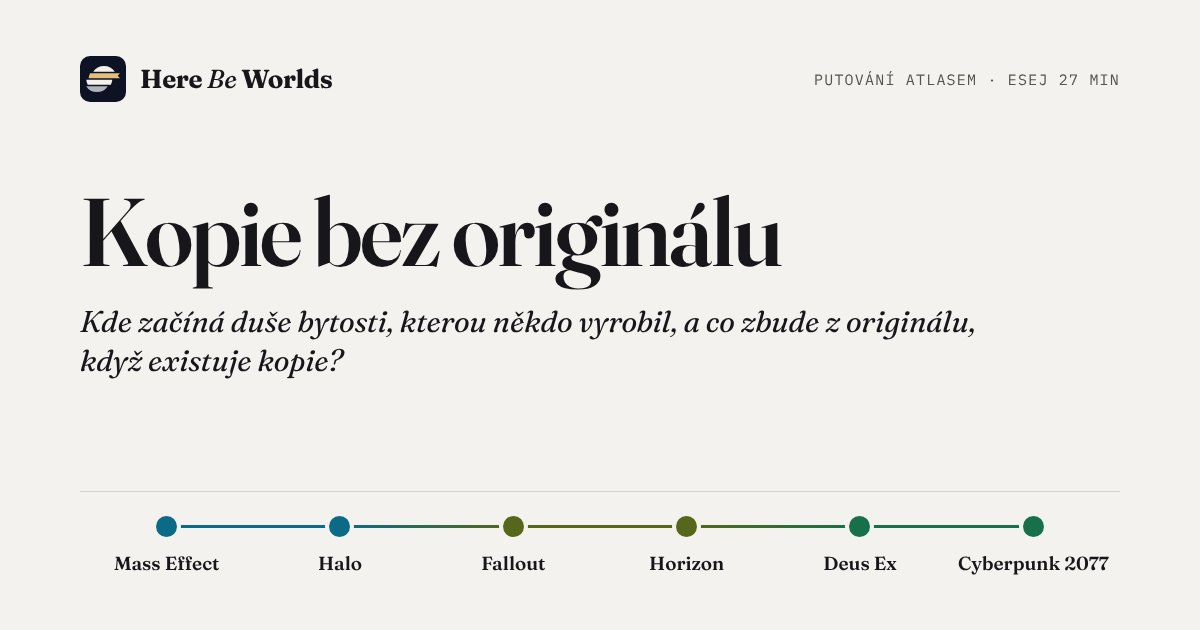
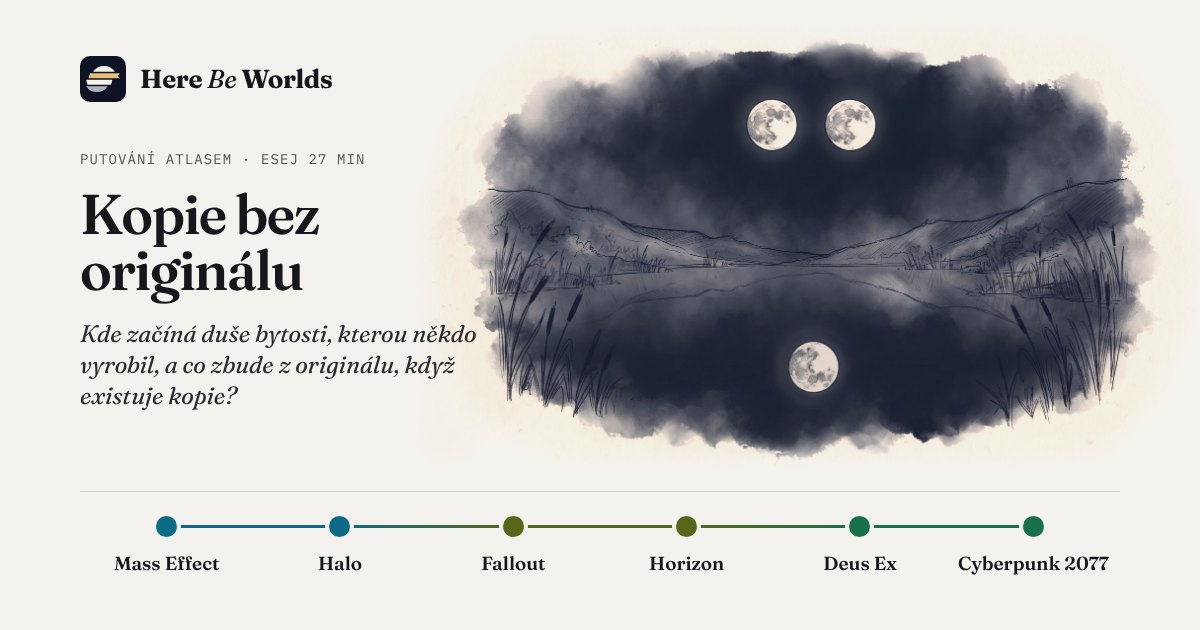
Obrázky k putování Kopie bez originálu: dva měsíce s jedním odrazem, pampeliška z pampelišek, kohout vyměněný s korouhví
Claude-Session: https://claude.ai/code/session_01B7obWLKHHEWxurZ5a1svnf

diff --git a/src/lib/trail-images.ts b/src/lib/trail-images.ts
@@ -29,6 +29,7 @@ export const READY: Record<TrailId, number> = {
   corporate: 3,
   laughter: 3,
   'chronicle-keepers': 3,
+  copies: 3,
 };
 
 const DIR = 'putovani-obrazky';

diff --git a/docs/obrazky-putovani.md b/docs/obrazky-putovani.md
@@ -13,7 +13,7 @@ Stav 2026-11-23: styl nalezený po pěti kolech zkoušek (náhled `/putovani/nav
 - **Zadání pro motivy: odvaha, surrealismus, silná myšlenka (majitel 2026-11-26, po Logu nad troskami, „zdaleka nejlepší série“):** motivy střídat a nebát se odvážných, i absurdních nápadů, i když se špatně převádějí do obrázku. Surrealisticky, ne doslovně; obraz má mít rafinovanost a silnou myšlenku, klidně i složitější. Majiteli se líbí satira a ironie. Co fungovalo: obyčejný, všem známý předmět nebo stavba na špatném místě nebo z nepatřičné látky, takže z něj je paradox, který se čte na první pohled (parkovací automaty místo náhrobků, atomový hřib jako kancelářská budova s trávníkem, mraky na provázku s cenovkou), a jedna velká čitelná silueta. Nevyšlo: guma (vypadala jako pilulka, vygumovaná půlka zůstala nakreslená) a razítko (otisk jako položená fotka). Gemini nezvládá změnu jednoho obrazu ve druhý na ploše, zvládá předmět na nečekaném místě.
 - **Styl neujíždět (majitel 2026-11-26, u Smíchu nad propastí):** styl držet podle série Logo nad troskami. Ve scéně nejmenovat barvy ani materiály (ne „červený provaz“, „rezavý stůl“, „lesklé balonky“, „mosazný zvonek“): Gemini je bere doslova a přebijí monochromní tuš. Scéna dvě až tři věty, hlavní tvar a jeden detail, ne výčet předmětů; dlouhá scéna táhne kresbu k čisté komiksové ilustraci a mlha mizí. Pokaždé nový chat a vždy stejný vzor `25-styl-vicko.jpg`, nikdy nový obrázek jako vzor. Pozor (majitel 2026-11-26 odpoledne, styl i barvy zase ujely): příčinou bylo, že Claude u každého promptu přepisoval i řádky Mood, Composition a Avoid (vlastní nálady, dlouhé seznamy zákazů včetně „cartoon, comic-book style…“, které Gemini spíš navedou). **Prompt je vždy přesně šablona z oddílu Jak generovat a mění se jen řádek Scene**; nálada se vyjádří uvnitř Scene, ne vlastním Mood.
 - **Neopakovat se, nečekaný znepokojivý detail (majitel 2026-11-25, u Prokletého dědictví):** napříč putováními se začaly opakovat stejné rekvizity (klíčky, zrcadla, obrazy, botičky, stopy) a majitel to zamítl: „chce to přijít s něčím nečekaným, a o to víc znepokojivým, musí tam být nějaký nečekaný moment, detail“. Vzor: kolébka s korunou, jejíž stín na zdi je rakev. Postup: obyčejný předmět (domácí, dětský, rodinný), který na první pohled nic nenaznačuje, a jediný detail, který ho na druhý pohled převrátí. Před návrhem motivů projít seznam níže a nesáhnout po ničem, co v něm už je; když se rekvizita přece jen hodí, říct to majiteli předem. Témata smějí být temná a zlověstná, bez krve a násilí (v promptu `Avoid: … gore`; u temných putování Mood „ominous surrealism … heavy with dread“ místo „quiet“).
-- **Už použité rekvizity (doplňovat po každém putování):** klíče a klíčové dírky (klíč stočený do kruhu, měsíc jako klíčová dírka) · zrcadla (rukavice a zrcátko, zamlžené zrcadlo) · obrazy a rámy (stín, který vypadl z obrazu) · boty a stopy (stopy ve sněhu, prázdné boty u žebříku) · prázdné oděvy (plášť na trůnu, kabát ukazující cestu, rukavice) · žebra a kosti jako stavivo (katedrála ze žeber, jablko se žebry) · trůny (plášť na trůnu, trůn s břízou) · knihy, deníky a dopisy (postavička z knihy, můra z deníku, dopisy z hlavy sochy, hranice srolovaných dopisů) · hodiny (kavalerie z rozbitých hodin) · světla (lucerna, svíčka, oheň u gramofonu) · koště a brky (koště z brků) · kouř (sirka z kouře, beránek z kouře) · nábytek a pokoje (křesla za sklem, okno s pokojem na pláni, koberec nad jámou) · stín jako odhalení (stín klíče, stín z obrazu, stín chapadel u pulce, stín rakve u kolébky) · ostatní: městečko na jevišti s roztrženým nebem, vajíčko ve vajíčku, kamenné víčko, domy otáčející se za chodcem, most z dlažby, kořenů, copů a prádla, prapory z hejn ptáků, kolotoč z děl, žebřík opřený o nebe, gramofon s hvězdami, sklenice s pulcem, mince na hraně, řetěz s dětským poutem, šperkovnice s mléčnými zuby, koleje a výhybka (smyčka jako oko), obojek s vodítkem do mraků, trhací kalendář s prázdnými listy, hostina v dunách, schodiště zpět do země, zazděný oblouk s pěšinou kolem, atomový hřib jako budova, parkovací automaty jako náhrobky, mraky na provázku s cenovkami, banánová slupka nad propastí, ostnatý plot s girlandami a balonky, úsměv na zamlženém okénku, socha s vyměnitelnou hlavou, stohy ze skartovaného papíru, psací stroj s papírovou cestou (a kolébka v seznamu stínů). Zkoušené a zamítnuté u svobodné vůle: hrací skříňka s baletkou, kostka ve vzduchu, piliny s magnetem (třikrát nevyšlo), budka zatlučená zevnitř. U Ráje: hradby obrácené dovnitř (vyšel obyčejný hrad), maják na dně (vypadá jako zatopený katastrofou), ráj pod skleněným zvonem (vypadá jako sněžítko), fontána s pískem (písek vypadá jako voda), kryt s pentlí (dveře jako trezor z Falloutu). U Smíchu nad propastí: pochod natahovacích zubů a jednokolka na girlandě přes rokli (dobré, ale znovu skály a propast), čertík v krabičce (barevný), kartotéka s vesmírem (digitální jiskry), past s konfetami, plynová maska s úsměvem, socha v šaškovské čepici (komiks), přepážka v bouři (červený provaz), balonkový pes v pitevně (lesklý), hráz z gumových kachniček (výborná, záloha), roztržené šapitó, rakev s frkačkou (frkačka jako svitek), skákací hrad (věžičky jako rakety). U Kdo drží kroniku: mapa se skalpelem (kruhová díra), inkoust zpod archivu (teče z kopce, archiv nepoznat), archeologický řez pod slavností, pomník s vysekanou postavou, odloupnutá tapeta (jakoby na stropě), vykrajovátko na hrdiny (čistá ilustrace), pevnost z knih, puzzle s kladivem, brk nad bojištěm (silný, ale prázdný; verze s přilbami a vavřínem moc světlá). Styl ujížděl, když se do šablony přidal řádek navíc („loose sketch“): obraz zesvětlal; šablonu neměnit, jen řádek Scene. U Loga nad troskami: guma (pilulka), razítko (otisk jako fotka), mravenčí farma s byty (doslovná, záloha). Poučení (majitel 2026-11-25): u celků musí být paradox hlavní tvar a číst se na první pohled; nic ze skutečného světa (Vítězný oblouk z Paříže zamítnut).
+- **Už použité rekvizity (doplňovat po každém putování):** klíče a klíčové dírky (klíč stočený do kruhu, měsíc jako klíčová dírka) · zrcadla (rukavice a zrcátko, zamlžené zrcadlo) · obrazy a rámy (stín, který vypadl z obrazu) · boty a stopy (stopy ve sněhu, prázdné boty u žebříku) · prázdné oděvy (plášť na trůnu, kabát ukazující cestu, rukavice) · žebra a kosti jako stavivo (katedrála ze žeber, jablko se žebry) · trůny (plášť na trůnu, trůn s břízou) · knihy, deníky a dopisy (postavička z knihy, můra z deníku, dopisy z hlavy sochy, hranice srolovaných dopisů) · hodiny (kavalerie z rozbitých hodin) · světla (lucerna, svíčka, oheň u gramofonu) · koště a brky (koště z brků) · kouř (sirka z kouře, beránek z kouře) · nábytek a pokoje (křesla za sklem, okno s pokojem na pláni, koberec nad jámou) · stín jako odhalení (stín klíče, stín z obrazu, stín chapadel u pulce, stín rakve u kolébky) · ostatní: městečko na jevišti s roztrženým nebem, vajíčko ve vajíčku, kamenné víčko, domy otáčející se za chodcem, most z dlažby, kořenů, copů a prádla, prapory z hejn ptáků, kolotoč z děl, žebřík opřený o nebe, gramofon s hvězdami, sklenice s pulcem, mince na hraně, řetěz s dětským poutem, šperkovnice s mléčnými zuby, koleje a výhybka (smyčka jako oko), obojek s vodítkem do mraků, trhací kalendář s prázdnými listy, hostina v dunách, schodiště zpět do země, zazděný oblouk s pěšinou kolem, atomový hřib jako budova, parkovací automaty jako náhrobky, mraky na provázku s cenovkami, banánová slupka nad propastí, ostnatý plot s girlandami a balonky, úsměv na zamlženém okénku, socha s vyměnitelnou hlavou, stohy ze skartovaného papíru, psací stroj s papírovou cestou, dva měsíce s jedním odrazem, pampeliška z pampelišek, kohout vyměněný s korouhví (a kolébka v seznamu stínů). Zkoušené a zamítnuté u svobodné vůle: hrací skříňka s baletkou, kostka ve vzduchu, piliny s magnetem (třikrát nevyšlo), budka zatlučená zevnitř. U Ráje: hradby obrácené dovnitř (vyšel obyčejný hrad), maják na dně (vypadá jako zatopený katastrofou), ráj pod skleněným zvonem (vypadá jako sněžítko), fontána s pískem (písek vypadá jako voda), kryt s pentlí (dveře jako trezor z Falloutu). U Smíchu nad propastí: pochod natahovacích zubů a jednokolka na girlandě přes rokli (dobré, ale znovu skály a propast), čertík v krabičce (barevný), kartotéka s vesmírem (digitální jiskry), past s konfetami, plynová maska s úsměvem, socha v šaškovské čepici (komiks), přepážka v bouři (červený provaz), balonkový pes v pitevně (lesklý), hráz z gumových kachniček (výborná, záloha), roztržené šapitó, rakev s frkačkou (frkačka jako svitek), skákací hrad (věžičky jako rakety). U Kopie bez originálu: Thésseova loď (prkna nepoznat, hnědá), kopírka s řadou dubů (kopírka už byla u skartovačky), kukaččí vejce (klišé), roubovaná jabloň (přeplácaná), řetěz papírových postav, dva hroby (bez druhé vrstvy), otisky prstů, stožár s větví, sbírka motýlů, láhev s přístavem. U Kdo drží kroniku: mapa se skalpelem (kruhová díra), inkoust zpod archivu (teče z kopce, archiv nepoznat), archeologický řez pod slavností, pomník s vysekanou postavou, odloupnutá tapeta (jakoby na stropě), vykrajovátko na hrdiny (čistá ilustrace), pevnost z knih, puzzle s kladivem, brk nad bojištěm (silný, ale prázdný; verze s přilbami a vavřínem moc světlá). Styl ujížděl, když se do šablony přidal řádek navíc („loose sketch“): obraz zesvětlal; šablonu neměnit, jen řádek Scene. U Loga nad troskami: guma (pilulka), razítko (otisk jako fotka), mravenčí farma s byty (doslovná, záloha). Poučení (majitel 2026-11-25): u celků musí být paradox hlavní tvar a číst se na první pohled; nic ze skutečného světa (Vítězný oblouk z Paříže zamítnut).
 - **Světlo:** výchozí je **čistě modrá tuš bez zlaté**. Zlatá (#E5BE7E) jen výjimečně, když ji řádek scény výslovně jmenuje a je jádrem motivu (klíčová dírka na nebi, oheň u gramofonu). Gemini jinak zlatou přidává sám (okénka, lucerny), protože ji má vzorový obrázek: proto prompt výslovně zakazuje převzít lampu ze vzoru (majitel 2026-11-23: „pořád stejné rozsvícené okýnko a lucerna“).
 - **Motiv:** detail nebo polocelek, ne velká scéna. Obraz s druhým čtením: na první pohled obyčejný, na druhý nese otázku eseje. Prázdný prostor kolem.
 - **Nikdy:** text, písmena, podpisy, rámečky; postavy, loga a místa z her; náboženské symboly; lidé (nanejvýš drobná postava zezadu, když to motiv potřebuje); cákance tuše; airbrush; uhlazená digitální linka.
@@ -25,7 +25,7 @@ Stav 2026-11-23: styl nalezený po pěti kolech zkoušek (náhled `/putovani/nav
 - Masky: `maska/<slug>-N.png` podle tuše pro tmavý motiv (`python3 scripts/ink-masks.py`, pak zkopírovat z `navrh-obrazku/maska/`, nebo upravit cestu ve skriptu), `maska/freska.png` obecná.
 - Které putování obrázky má: `READY` v `src/lib/trail-images.ts`. Obrázky se ukážou jen u schválené eseje.
 - Rejstřík `/putovani/` má rozvržení karet ve dvou sloupcích s obrázkem nahoře (C, vybráno ze tří variant: A obraz za textem, B střídavé desky). Dokud nemají obrázky všechna putování, stojí vedle karty s obrázkem textové karty.
-- Na webu (2026-11-23): Hra ví, že ji hraješ (městečko na jevišti s roztrženým namalovaným nebem; postavička vylezlá z ilustrace v knize; stín, který vypadl z obrazu na podlahu); Na mrtvole boha (tři: prázdný plášť na trůnu držený provazy davu; trůn, kterým prorůstá bříza; jablko s žebry místo jádřince); Netvor v zrcadle (zatím jeden: stopy ve sněhu, které se z bot mění v tlapy); Mluví už jen mrtví (tři: prázdný kabát, který ukazuje cestu; můra s křídly z deníku; potopená hlava sochy, z níž stoupají listy dopisu k loďce); Uvězněni v kruhu (tři: klíč stočený do kruhu se stínem rovného klíče; vajíčko ve vajíčku; z kouře dohořelé sirky nová sirka); Bohové jako břemeno (katedrála ze žeber, kamenné víčko); Město, které dýchá (domy, které se otáčejí za chodcem; most z dlažby, kořenů, copů a prádla); Dům, ze kterého nejde odejít (měsíc jako zlatá klíčová dírka nad městečkem, okno uprostřed pláně s pokojem uvnitř). Válka, kterou nikdo nevyhraje (tři obrázky: prapory z hejn ptáků, kolotoč z děl, kavalerie z rozbitých hodin se svíčkou v temnu); Pod lhostejnými hvězdami (žebřík opřený o nebe s prázdnými botami a lucernou, gramofon, ze kterého se sypou hvězdy, u táboráku); Kdo za to může? (tři: prázdná rukavice ukazuje na zrcátko a odraz ukazuje zpět na diváka; koberec, pod jehož rohem je jáma se schody a koště z brků; z hranice srolovaných dopisů odplouvá kouř jako spící beránek, 2026-11-25); Kdo se to probudil? (tři: zamlžené zrcadlo nad umyvadlem, v jehož setřeném pruhu je další zrcadlo; dvě stejná křesla v pokoji rozděleném sklem, které prochází mincí na hraně; sklenice s pulcem, jehož stín na zdi jsou chapadla; 2026-11-25); Prokleté dědictví (tři: kolébka s korunou, jejíž stín je rakev, křížek na koruně vyretušovaný; řetěz z praskliny v zemi s otevřeným dětským poutem, hnědý nádech řetězu převedený do indiga; šperkovnice s náhrdelníkem z mléčných zubů; 2026-11-25); Křehká hranice svobodné vůle (tři: koleje shora, které se u výhybky rozdělí a zase spojí kolem kulatého jezírka, takže tvoří oko; prázdný obojek s vodítkem napnutým do mraků; trhací kalendář s prázdnými listy, jeden právě utržený, původně k jinému tématu, majitel ho přidal; 2026-11-25); Ráj, který se nepovedl (tři, poprvé celky místo předmětu, na pokyn majitele velký motiv a paradox: monumentální schodiště, které se v oblouku vrací zpátky do země (titulní, majitel 2026-11-26); nekonečně dlouhý prostřený stůl v poušti, zavátý dunou; vymyšlený zazděný oblouk se sluncem, kolem jehož boku je v dlažbě vyšlapaná pěšina; 2026-11-25); Logo nad troskami (tři, satira: atomový hřib ztuhlý v kancelářskou budovu s otáčecími dveřmi a ostříhaným trávníkem v troskách; hřbitov, kde místo náhrobků stojí parkovací automaty; opuštěný vozík prodavače mraků na provázcích s prázdnými cenovkami pod holým nebem; 2026-11-26); Smích nad propastí (tři: banánová slupka na samé hraně útesu nad propastí; ostnatý plot se strážní věží vyzdobený girlandami a balonky, jeden balonek splasklý na ostnu; prstem nakreslený úsměv na zamlženém okénku bunkru, ze kterého stéká kondenzace; 2026-11-26); Kdo drží kroniku (tři, satira dějin: jezdecká socha bez hlavy, jeřáb spouští novou hlavu a vedle stojí regál s osmi různými náhradními hlavami; stohy na poli ze skartovaného papíru a skartovačka; psací stroj, jehož papír plynule přechází v cestu krajinou, s ukazatelem ve směru papíru (nakonec nová verze od majitele, kde papír na cestu navazuje sám); 2026-11-26). Postup: 5 motivů, vybrat 2. **Motivy: surrealismus a neobvyklé kompozice, klidně velké měřítko a zachycený pohyb (Magritte, Dalí), neobvyklé spojení předmětů (v duchu Magritta), jen lehce doslovné** — první kolo s doslovnými motivy (tapeta, dveře, kolébka) majitel zamítl jako nenápadité. Do promptu řádek `Mood: subtle surrealism in the spirit of Magritte: one unexpected combination, quiet and uncanny, never literal or explanatory. Rich in discoverable detail: several unexpected secondary motifs are woven into the main forms, so the viewer keeps finding new things on a second look.` Po přidání prvního obrázku obnovit kartu pro sdílení: `npm run og -- <slug> putovani` (fonty a Chromium viz CLAUDE.md). Masky: `python3 scripts/ink-masks.py public/putovani-obrazky/<slug>-1.jpg …`; když je světlý papír uprostřed součástí motivu (mezera mezi konci mostu), přidej `--fill`. Skript dělá dvě masky: `<soubor>.png` pro tmavý motiv a širokou `<soubor>-light.png` pro světlý (papír tam schová multiply a lehké vybělení `brightness(1.06) saturate(0.8)`, maska nesmí zamlžit slabé tahy; majitel 2026-11-23). Ve světlém motivu se v eseji kresba ořezává jen širokou maskou (fresková by ořízla tahy štětce nahoře a stopy u spodního okraje); v tmavém motivu (esej i rejstřík) jen fresková maska: tvar je vždy **zvlněný obdélník do ztracena**, nikdy vykrojený podle skvrn tuše (majitel 2026-11-23). Zkoušený okraj podle tahů štětce se světlým lemem majitel zamítl jako „příliš“: v tmavém motivu okraje nebudou tak působivé jako ve světlém a je to tak správně; v rejstříku zůstává i fresková (obrázek je tam oříznutý na 3 : 2).
+- Na webu (2026-11-23): Hra ví, že ji hraješ (městečko na jevišti s roztrženým namalovaným nebem; postavička vylezlá z ilustrace v knize; stín, který vypadl z obrazu na podlahu); Na mrtvole boha (tři: prázdný plášť na trůnu držený provazy davu; trůn, kterým prorůstá bříza; jablko s žebry místo jádřince); Netvor v zrcadle (zatím jeden: stopy ve sněhu, které se z bot mění v tlapy); Mluví už jen mrtví (tři: prázdný kabát, který ukazuje cestu; můra s křídly z deníku; potopená hlava sochy, z níž stoupají listy dopisu k loďce); Uvězněni v kruhu (tři: klíč stočený do kruhu se stínem rovného klíče; vajíčko ve vajíčku; z kouře dohořelé sirky nová sirka); Bohové jako břemeno (katedrála ze žeber, kamenné víčko); Město, které dýchá (domy, které se otáčejí za chodcem; most z dlažby, kořenů, copů a prádla); Dům, ze kterého nejde odejít (měsíc jako zlatá klíčová dírka nad městečkem, okno uprostřed pláně s pokojem uvnitř). Válka, kterou nikdo nevyhraje (tři obrázky: prapory z hejn ptáků, kolotoč z děl, kavalerie z rozbitých hodin se svíčkou v temnu); Pod lhostejnými hvězdami (žebřík opřený o nebe s prázdnými botami a lucernou, gramofon, ze kterého se sypou hvězdy, u táboráku); Kdo za to může? (tři: prázdná rukavice ukazuje na zrcátko a odraz ukazuje zpět na diváka; koberec, pod jehož rohem je jáma se schody a koště z brků; z hranice srolovaných dopisů odplouvá kouř jako spící beránek, 2026-11-25); Kdo se to probudil? (tři: zamlžené zrcadlo nad umyvadlem, v jehož setřeném pruhu je další zrcadlo; dvě stejná křesla v pokoji rozděleném sklem, které prochází mincí na hraně; sklenice s pulcem, jehož stín na zdi jsou chapadla; 2026-11-25); Prokleté dědictví (tři: kolébka s korunou, jejíž stín je rakev, křížek na koruně vyretušovaný; řetěz z praskliny v zemi s otevřeným dětským poutem, hnědý nádech řetězu převedený do indiga; šperkovnice s náhrdelníkem z mléčných zubů; 2026-11-25); Křehká hranice svobodné vůle (tři: koleje shora, které se u výhybky rozdělí a zase spojí kolem kulatého jezírka, takže tvoří oko; prázdný obojek s vodítkem napnutým do mraků; trhací kalendář s prázdnými listy, jeden právě utržený, původně k jinému tématu, majitel ho přidal; 2026-11-25); Ráj, který se nepovedl (tři, poprvé celky místo předmětu, na pokyn majitele velký motiv a paradox: monumentální schodiště, které se v oblouku vrací zpátky do země (titulní, majitel 2026-11-26); nekonečně dlouhý prostřený stůl v poušti, zavátý dunou; vymyšlený zazděný oblouk se sluncem, kolem jehož boku je v dlažbě vyšlapaná pěšina; 2026-11-25); Logo nad troskami (tři, satira: atomový hřib ztuhlý v kancelářskou budovu s otáčecími dveřmi a ostříhaným trávníkem v troskách; hřbitov, kde místo náhrobků stojí parkovací automaty; opuštěný vozík prodavače mraků na provázcích s prázdnými cenovkami pod holým nebem; 2026-11-26); Smích nad propastí (tři: banánová slupka na samé hraně útesu nad propastí; ostnatý plot se strážní věží vyzdobený girlandami a balonky, jeden balonek splasklý na ostnu; prstem nakreslený úsměv na zamlženém okénku bunkru, ze kterého stéká kondenzace; 2026-11-26); Kdo drží kroniku (tři, satira dějin: jezdecká socha bez hlavy, jeřáb spouští novou hlavu a vedle stojí regál s osmi různými náhradními hlavami; stohy na poli ze skartovaného papíru a skartovačka; psací stroj, jehož papír plynule přechází v cestu krajinou, s ukazatelem ve směru papíru (nakonec nová verze od majitele, kde papír na cestu navazuje sám); 2026-11-26); Kopie bez originálu (tři: dva stejné měsíce nad jezerem, které odráží jen jeden, uprostřed (odraz ručně nahrazený zrcadlenou kopií měsíce, aby seděl); pampeliška, od které místo semínek odlétají malé celé pampelišky a od nich ještě menší; živý kohout ztuhlý na korouhvi a plechový kohout zobající na dvoře (písmena světových stran vyretušovaná); 2026-11-26). Postup: 5 motivů, vybrat 2. **Motivy: surrealismus a neobvyklé kompozice, klidně velké měřítko a zachycený pohyb (Magritte, Dalí), neobvyklé spojení předmětů (v duchu Magritta), jen lehce doslovné** — první kolo s doslovnými motivy (tapeta, dveře, kolébka) majitel zamítl jako nenápadité. Do promptu řádek `Mood: subtle surrealism in the spirit of Magritte: one unexpected combination, quiet and uncanny, never literal or explanatory. Rich in discoverable detail: several unexpected secondary motifs are woven into the main forms, so the viewer keeps finding new things on a second look.` Po přidání prvního obrázku obnovit kartu pro sdílení: `npm run og -- <slug> putovani` (fonty a Chromium viz CLAUDE.md). Masky: `python3 scripts/ink-masks.py public/putovani-obrazky/<slug>-1.jpg …`; když je světlý papír uprostřed součástí motivu (mezera mezi konci mostu), přidej `--fill`. Skript dělá dvě masky: `<soubor>.png` pro tmavý motiv a širokou `<soubor>-light.png` pro světlý (papír tam schová multiply a lehké vybělení `brightness(1.06) saturate(0.8)`, maska nesmí zamlžit slabé tahy; majitel 2026-11-23). Ve světlém motivu se v eseji kresba ořezává jen širokou maskou (fresková by ořízla tahy štětce nahoře a stopy u spodního okraje); v tmavém motivu (esej i rejstřík) jen fresková maska: tvar je vždy **zvlněný obdélník do ztracena**, nikdy vykrojený podle skvrn tuše (majitel 2026-11-23). Zkoušený okraj podle tahů štětce se světlým lemem majitel zamítl jako „příliš“: v tmavém motivu okraje nebudou tak působivé jako ve světlém a je to tak správně; v rejstříku zůstává i fresková (obrázek je tam oříznutý na 3 : 2).
 
 ## Jak generovat
 

diff --git a/CLAUDE.md b/CLAUDE.md
@@ -83,7 +83,7 @@ Kroniky a eseje **nejsou** v `data/`.
 | `/notes/` | `src/pages/notes/index.astro` | `NotesPage` — obsah oddílů (lepí se pod hlavičku, oddíl, který čteš, je podtržený; na telefonu jeden řádek posuvný do strany, 2026-11-25), rejstříkový seznam pojmů (štítek vlevo, výklad vpravo), legenda 1–5 jako pruh os; oddíly Charakter světa · Profil světa · Triáda (tři pojmy s odkazy do Anatomie a do Galerie triád / Mapy neznáma, pod nimi typy hříchů, dilemata, druhy tajemství a kdo drží mezeru s ikonami – texty z `triad-types.json`, 2026-11-24 se souhlasem majitele) · Příbuznost světů (4 pilíře, 5 stupňů slovy, bez procent) · Kompas a ladění · Hlubina času (2026-11-25 s pokynem majitele: šest pojmů – sloupec a hladina, období her a rysky, dějiny a fundamentální události, odhad, mýtus a cyklus, stupnice, naše časová osa – a odkaz na stránku; `noteDeepTime*`) · Kánon (texty v `data/meta/notes.ts`) |
 | `/anatomie-herniho-lore/` | `src/pages/anatomie-herniho-lore/index.astro` | `EssayPage` (obsah `ReadingToc` vlevo, čtecí sloupec jako kronika, doba čtení pod podtitulem) |
 | `/teoreticke-zazemi/` | `src/pages/teoreticke-zazemi/index.astro` | `EssayPage` z `content/essays/teoreticke-zazemi.md`: prameny atlasu po oblastech (fikční světy, fantastika, herní studia, hrůza a posvátno, mýtus, paměť, osoba a identita, moc a dohled, dílna tvůrců), tabulka pojmů, výhrady k autorům, co by sem ještě patřilo, seznam literatury. Odkaz z Anatomie (oddíl Na čem metoda stojí) a z patičky. **Po zapracování nové knihy doplnit i sem.** |
-| `/putovani/` | `src/pages/putovani/index.astro` | `TrailsIndex` (`src/components/trails/`, styly `trails.css`): hlavička jako atlas, filtry **Svět** a **Téma** (rozsvítí stezky, kterými svět prochází / které se tématu dotýkají, ostatní ztlumí; `?svet=<id>`, `?tema=<slug>`; klik na téma v řádku dělá totéž, jméno světa v kartě vede rovnou na spis světa (majitel 2026-11-24)); rejstřík 22 stezek jako **karty ve dvou sloupcích** (rozvržení C, majitel 2026-11-23; karta: obrázek nahoře přes celou šířku karty do ztracena, 3 : 2, pak název, popis, světy s linkou v barvě archetypu nad každým jménem, témata eseje jako hranaté štítky na tónovaném podkladu (vybrané téma v akcentu) = `themes` v `trails.ts`, 2–4 na stezku, a za nimi „Esej · N min“; karta bez obrázku je jen text; na telefonu jeden sloupec); oddíl **Kde se stezky kříží** (mřížka stezky × všechny světy podle abecedy, i ty na jediné stezce, vpravo počet (majitel 2026-11-22), tečka v barvě archetypu, pod kurzorem se rozsvítí sloupec i řádek, názvy stezek nahoře i dole; na telefonu seznam dvanácti nejvíc křížených světů). V hlavičce webu odkaz Putování hned za Atlasem; Putování dne na titulní straně vedou na stránky putování. Staré adresy `/stezky/…` přesměrovávají (`src/pages/stezky/`, `RedirectPage.astro`). Obrázky k putováním (jediné místo na webu s obrázky): styl a postup `docs/obrazky-putovani.md`, soubory `public/putovani-obrazky/`, seznam `READY` v `src/lib/trail-images.ts`; náhled v rejstříku (`TrailsIndex images`) a v eseji pod úvodním citátem a uprostřed (`EssayPage hero/hero2/heroLive`), okraj do ztracena maskou. Zatím Bohové jako břemeno, Dům, ze kterého nejde odejít, Pod lhostejnými hvězdami, Válka, kterou nikdo nevyhraje, Město, které dýchá, Uvězněni v kruhu, Mluví už jen mrtví, Netvor v zrcadle, Na mrtvole boha, Hra ví, že ji hraješ, Kdo za to může?, Kdo se to probudil?, Prokleté dědictví, Křehká hranice svobodné vůle, Ráj, který se nepovedl, Logo nad troskami, Smích nad propastí a Kdo drží kroniku. Zkušební náhled `/putovani/navrh-obrazku/` (noindex). |
+| `/putovani/` | `src/pages/putovani/index.astro` | `TrailsIndex` (`src/components/trails/`, styly `trails.css`): hlavička jako atlas, filtry **Svět** a **Téma** (rozsvítí stezky, kterými svět prochází / které se tématu dotýkají, ostatní ztlumí; `?svet=<id>`, `?tema=<slug>`; klik na téma v řádku dělá totéž, jméno světa v kartě vede rovnou na spis světa (majitel 2026-11-24)); rejstřík 22 stezek jako **karty ve dvou sloupcích** (rozvržení C, majitel 2026-11-23; karta: obrázek nahoře přes celou šířku karty do ztracena, 3 : 2, pak název, popis, světy s linkou v barvě archetypu nad každým jménem, témata eseje jako hranaté štítky na tónovaném podkladu (vybrané téma v akcentu) = `themes` v `trails.ts`, 2–4 na stezku, a za nimi „Esej · N min“; karta bez obrázku je jen text; na telefonu jeden sloupec); oddíl **Kde se stezky kříží** (mřížka stezky × všechny světy podle abecedy, i ty na jediné stezce, vpravo počet (majitel 2026-11-22), tečka v barvě archetypu, pod kurzorem se rozsvítí sloupec i řádek, názvy stezek nahoře i dole; na telefonu seznam dvanácti nejvíc křížených světů). V hlavičce webu odkaz Putování hned za Atlasem; Putování dne na titulní straně vedou na stránky putování. Staré adresy `/stezky/…` přesměrovávají (`src/pages/stezky/`, `RedirectPage.astro`). Obrázky k putováním (jediné místo na webu s obrázky): styl a postup `docs/obrazky-putovani.md`, soubory `public/putovani-obrazky/`, seznam `READY` v `src/lib/trail-images.ts`; náhled v rejstříku (`TrailsIndex images`) a v eseji pod úvodním citátem a uprostřed (`EssayPage hero/hero2/heroLive`), okraj do ztracena maskou. Zatím Bohové jako břemeno, Dům, ze kterého nejde odejít, Pod lhostejnými hvězdami, Válka, kterou nikdo nevyhraje, Město, které dýchá, Uvězněni v kruhu, Mluví už jen mrtví, Netvor v zrcadle, Na mrtvole boha, Hra ví, že ji hraješ, Kdo za to může?, Kdo se to probudil?, Prokleté dědictví, Křehká hranice svobodné vůle, Ráj, který se nepovedl, Logo nad troskami, Smích nad propastí, Kdo drží kroniku a Kopie bez originálu. Zkušební náhled `/putovani/navrh-obrazku/` (noindex). |
 | `/putovani/[id]/` | `src/pages/putovani/[id].astro` | Stránka každého putování, adresa = český slug z `TRAIL_SLUGS` (`trails.ts`), stejný jako soubor eseje v `content/trails/`. `EssayPage` s `trail`: pod hlavičkou `TrailCast` (světy) a `TrailThemes` (témata → `/putovani/?tema=`), před Zdroji `TrailWorlds` (souřadnice s výraznými názvy, seznam světů s archetypem a podžánrem). **Esej se ukáže jen s `approved: true` ve frontmatteru** (schvaluje majitel); jinak stránka ukáže rámeček „Esej připravujeme“, Světy putování a oddíl „Na čem putování stojí“ (jména pramenů z tabulky Prameny podle stezek v `docs/prameny/README.md`, `trailSources` v `src/lib/trail-pages.ts`). Neschválené eseje mají náhled `/putovani/navrh/<slug>/` (`noindex`, z webu na něj nic nevede). Schválené (2026-11-21): `na-mrtvole-boha`, `kdo-za-to-muze`, `kdo-se-to-probudil`, `netvor-v-zrcadle`, `mluvi-uz-jen-mrtvi`, `bohove-jako-bremeno`, `valka-kterou-nikdo-nevyhraje`, `proklete-dedictvi`, `krehka-hranice-svobodne-vule`, `uvezneni-v-kruhu`, `hra-vi-ze-ji-hrajes`, `raj-ktery-se-nepovedl`, `logo-nad-troskami`, `smich-nad-propasti`, `mesto-ktere-dycha`, `pod-lhostejnymi-hvezdami`, `kdo-drzi-kroniku`, `kopie-bez-originalu`, `dum-ze-ktereho-nejde-odejit`, `prace-ktera-nikdy-nekonci`, `jmeno-jako-klic-i-kletba`, `nakaza-s-vlastni-vuli` (všech 22). |
 | `/temata/` | `src/pages/temata/index.astro` | `ThemesIndex` (`src/components/themes/`, styly `themes.css`, 2026-11-24): pás hlavičky, řazení Podle abecedy / Podle počtu světů, rejstřík témat ve dvou sloupcích (název → stránka tématu, otázka kurzívou, otisk světů jako čtverečky v barvě archetypu, počet světů a putování) a **Kde se témata potkávají** (trojúhelníková mřížka téma × téma, kruh podle počtu světů s oběma tématy, prázdné šrafované, najetí rozsvítí řádek i sloupec a vypíše dvojici; na telefonu skrytá). |
 | `/temata/[slug]/` | `src/pages/temata/[slug].astro` | `ThemePage`, adresa = český název bez diakritiky (`themePageSlug` v `src/lib/themes.ts`). Hlavička v pásu: štítek „Téma“ (odkaz na rejstřík), název, otázka, „N světů · N archetypů · N putování“, vpravo **obloha z titulní strany v tuši** (`ThemeSky`; hvězdy na stejných místech díky `src/lib/sky.ts`, světy tématu rozsvícené v barvě archetypu a spojené přerušovanou nejkratší trasou, ostatní tlumeně; najetí na hvězdu ukáže jméno). Oddíly: **Světy** (záznamy ve třech sloupcích: linka v barvě archetypu, název, archetyp · podžánr, jádro kurzívou; najetí rozsvítí hvězdu) · **Podoba tématu** (Archetypy: řádek na archetyp, čtverečky = všechny jeho světy, plné = s tématem; Souřadnice: `AxisRange` s prázdným kosočtvercem průměru celého atlasu `reference`) · **Putování** (putování s tématem v `trails.ts` `themes`, první obrázek přes masku, otázka eseje, trasa světů, světy tématu tučně) · **Potkává se s** (šest témat nejčastěji ve stejných světech, `neighbourThemes`; není to příbuznost světů) · odkazy Otevřít v atlasu · Všechna témata. Podklady skládá při sestavení `src/lib/theme-pages.ts`. Odkazy na stránky témat: hledání (lupa), atlas (Další pohledy a „O tématu …“ pod počtem výsledků při filtru tématu), patička. Témata na kartě světa vedou na stránky témat (majitel 2026-11-24). |
